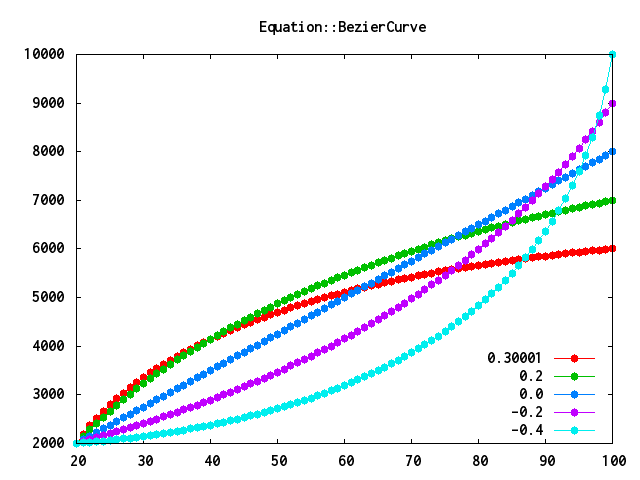
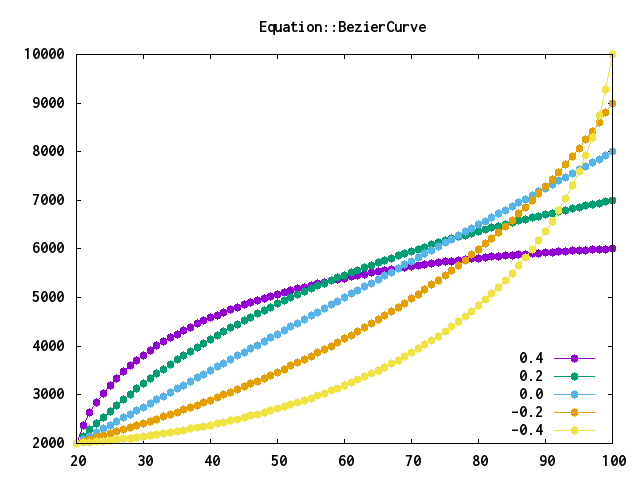
ベジェで0.3曲げると交点が発生しない→勝手に直っていた
のでサンプルも変更

diff --git a/examples/0140_example.rb b/examples/0140_example.rb
@@ -9,8 +9,8 @@ attack_base = 2000
 patterns = []
 patterns << {:pull => [-0.5,  -0.0], :y_range => (attack_base..10000 - 1000 * 0)}
 patterns << {:pull => [+0.5,   0.0], :y_range => (attack_base..10000 - 1000 * 0)}
-patterns << {:pull => [0.001, -0.5], :y_range => (attack_base..10000 - 1000 * 0)}
-patterns << {:pull => [0.001,  0.5], :y_range => (attack_base..10000 - 1000 * 0)}
+patterns << {:pull => [0.01,  -0.5], :y_range => (attack_base..10000 - 1000 * 0)}
+patterns << {:pull => [0.01,   0.5], :y_range => (attack_base..10000 - 1000 * 0)}
 patterns << {:pull => [-0.25, -0.5], :y_range => (attack_base..10000 - 1000 * 0)}
 patterns << {:pull => [ 0.25,  0.5], :y_range => (attack_base..10000 - 1000 * 0)}
 
@@ -18,7 +18,7 @@ list = patterns.collect{|e|{:name => e[:pull], :records => x_range.collect{|x| {
 Equation::Base.output_file(list, :title => "Equation::BezierCurve", :filename => "bezier_curve_pull2.png")
 # >> writing this to gnuplot:
 # >> set terminal png font 'Ricty-Bold.ttf'
-# >> set output "bezier_curve2.png"
+# >> set output "bezier_curve_pull2.png"
 # >> set title "Equation::BezierCurve"
 # >> set xlabel ""
 # >> set ylabel ""

diff --git a/examples/0160_example.rb b/examples/0160_example.rb
@@ -8,8 +8,8 @@ require 'gnuplot'
 x_range = 1..100
 patitions = []
 patitions << {x_range: 1..30,   y_range: 0..1500,     type: :bezier, pull: 0.2}
-patitions << {x_range: 30..90,  y_range: 1500..4000,  type: :bezier, pull: -0.31}
-patitions << {x_range: 90..100, y_range: 4000..10000, type: :bezier, pull: -0.21}
+patitions << {x_range: 30..90,  y_range: 1500..4000,  type: :bezier, pull: -0.3}
+patitions << {x_range: 90..100, y_range: 4000..10000, type: :bezier, pull: -0.2}
 
 list = patitions.collect do |e|
   {

diff --git a/spec/equation_spec.rb b/spec/equation_spec.rb
@@ -62,6 +62,12 @@ RSpec.describe Equation do
       curve.x_by_y(800).should == 8.280509771224626
       curve.x_by_y(999).should == 9.0
     end
+
+    # ruby 2.2.3p173 (2015-08-18 revision 51636) [x86_64-darwin13] より前だとなぜか交点が取得できずにエラーになっていた
+    it "エラーにならない" do
+      curve = Equation::BezierCurve._create(0..10, 0..10, :pull => -0.3)
+      curve.y_by_x(5).should == 2.2301603505156646
+    end
   end
 
   describe Equation::LevelSupport do
